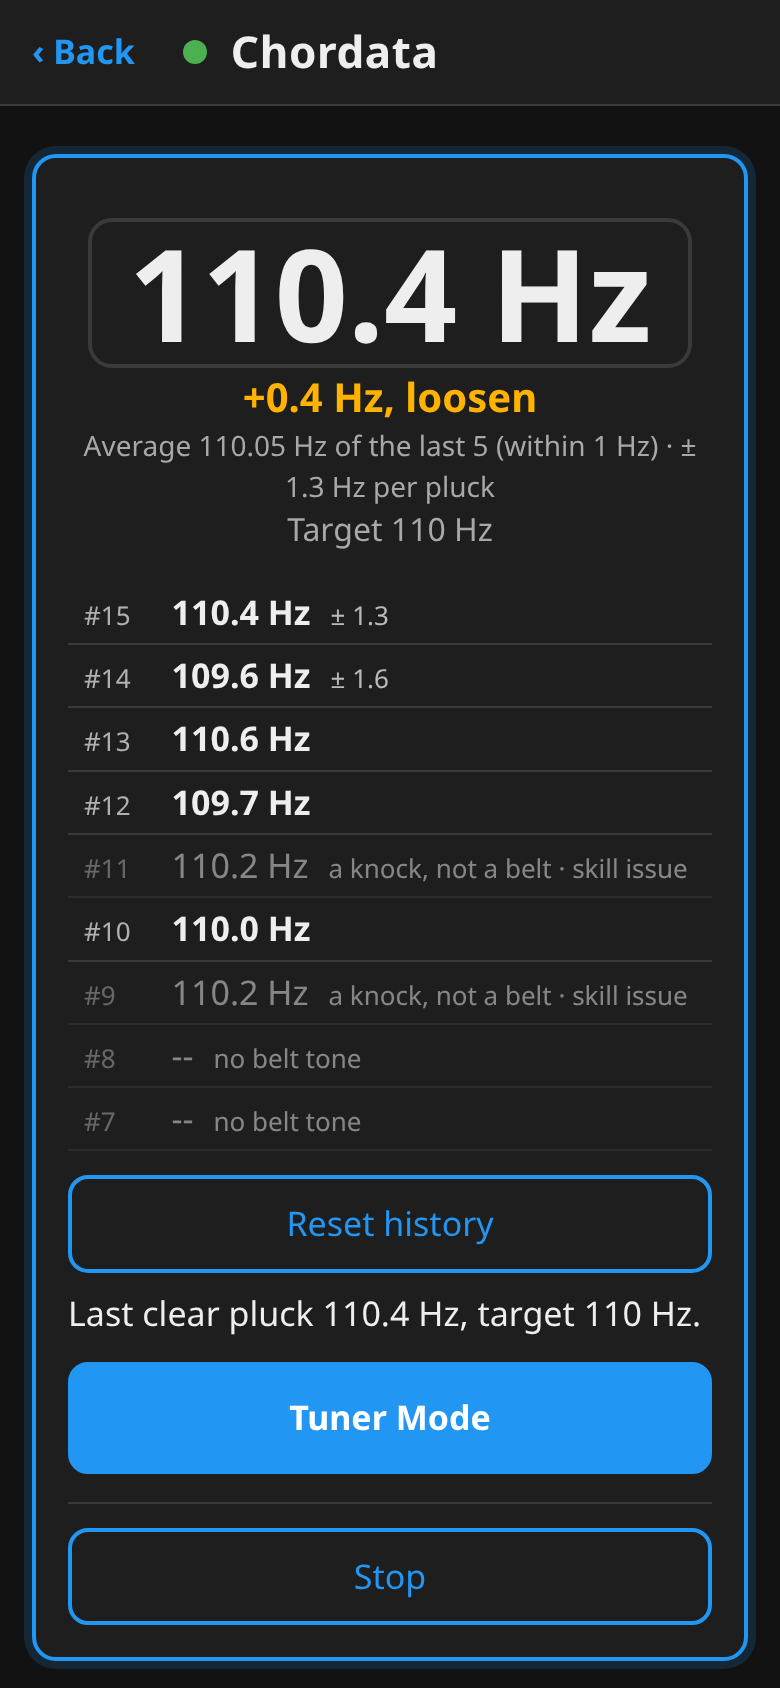
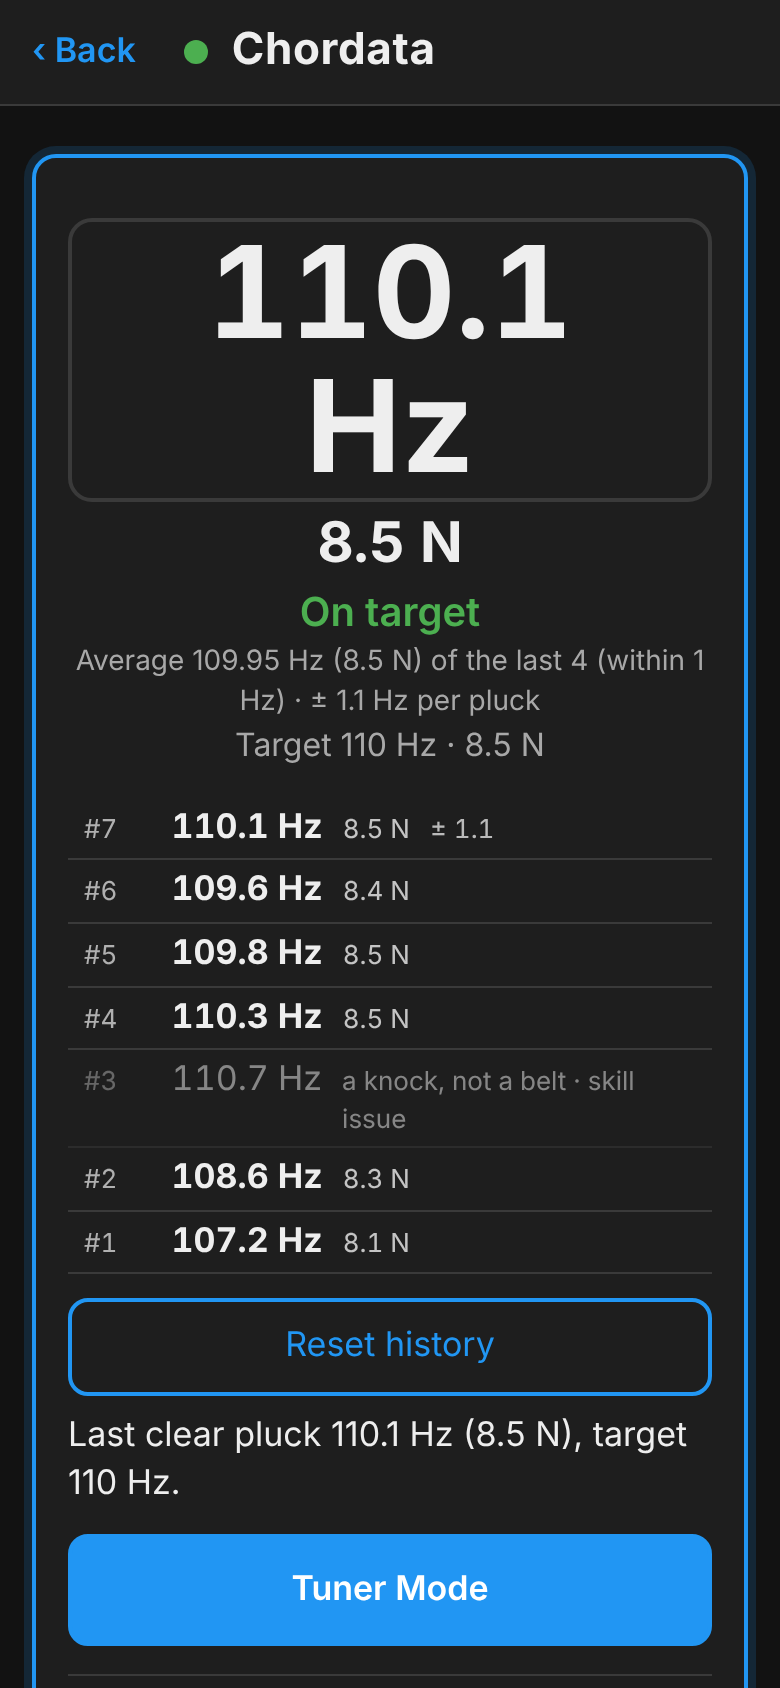
README: new screenshots with belt tension
The How it works screens are retaken on current main (virtual printer), with the
belt tension in N, plus a new one of the belt tension card. Step 1 says how to set
the span and belt, and how far the tension can be trusted. Docs only.

diff --git a/README.md b/README.md
@@ -14,10 +14,17 @@ microphone on two printers so far; the numbers are in [How it was tested](#how-i
 Chordata is a page on your printer, made for a phone held next to it. The screens below are from a
 virtual printer, so the numbers are made up; the page is the real one.
 
-<img src="docs/images/setup.png" width="260" alt="Set Target Frequency: the target, the accelerometer, a jog pad to park the toolhead, Start">
+<img src="docs/images/setup.png" width="260" alt="Set Target Frequency: the belt, the target in Hz, N or lbf, the accelerometer, a jog pad to park the toolhead, Start">
 
 **1. Set up.** Enter the target frequency your printer's documentation gives and park the toolhead where it
-says to pluck (the jog pad moves it; the position can be saved for next time). Press **Start**.
+says to pluck (the jog pad moves it; the position can be saved for next time).
+
+<img src="docs/images/tension.png" width="260" alt="Belt tension card: the span, the belt (6 mm or 9 mm, Gates-Unitta 2GT or Gates GT2 / GT3, or Other) and N or lbf">
+
+Optional: to see the tension in N or lbf as well, press the button under **Belt** (it reads *Not set: Hz
+only*), give the span you pluck and pick your belt. The target can then be typed in Hz, N or lbf. The
+tension is good to about 15-20 % and reads a little high on short spans; your two belts, same span and same
+belt, compare as well as their Hz do. Then press **Start**.
 
 <img src="docs/images/hands-off.png" width="260" alt="Red screen: Stand by, recording background noise">
 
@@ -38,7 +45,7 @@ nothing to learn).
 
 Then the card shows the toolhead's note and the **Tuner Mode** button.
 
-<img src="docs/images/tuner.png" width="260" alt="Green screen, Tuner Mode: the last pluck's frequency, how far from target and which way to turn, the average of the last plucks, the history">
+<img src="docs/images/tuner.png" width="260" alt="Green screen, Tuner Mode: the last pluck's frequency and tension, how far from target and which way to turn, the average of the last plucks, the history with a knock left out">
 
 **4. Tune (Tuner Mode).** The screen turns green: pluck either belt. The stream is analysed as it comes, so
 each clear pluck shows its frequency within about a second, how far it is from your target and which way
@@ -54,7 +61,7 @@ when you switch belts. Turn the tensioner a little between plucks until the belt
 target (within 0.25 Hz; the last pluck decides, the average under it shows whether that holds), then do the
 other belt. A listen ends 60 s after the last pluck, or after 30 minutes at most; start it again to go on.
 
-<img src="docs/images/done.png" width="260" alt="After Done: the last pluck, the average, the whole history">
+<img src="docs/images/done.png" width="260" alt="After Done: the last pluck and its tension, the average, the whole history">
 
 **5. Match.** CoreXY belts pull on each other, so turning one moves the other a little: pluck both once
 more at the end. Done when both are on target, and so match each other. After **Done**, the card keeps the

diff --git a/docs/USER_GUIDE.md b/docs/USER_GUIDE.md
@@ -24,7 +24,7 @@ without it, the page tries to connect to Moonraker on the same host. Demo mode
 opens no printer connection and disables printer commands. Stop this preview
 server with Ctrl+C when finished. A static preview server does not measure belts.
 
-This is the page after a Tuner Mode session (illustrative data): the last pluck, the average of the last
+The page after a Tuner Mode session looks like this (from a virtual printer; the demo's numbers differ): the last pluck, the average of the last
 plucks that agree with its ±, and the session's history.
 
 ![The Chordata page after a Tuner Mode session (virtual printer)](images/done.png)

diff --git a/CHANGELOG.md b/CHANGELOG.md
@@ -3,6 +3,11 @@
 What changed in each update of Chordata's main branch, newest first.
 Update from Mainsail's Update Manager, then restart Klipper.
 
+## 2026-10-31
+
+- **README: new screenshots.** The screens in How it works are retaken on the current page, with the
+  belt tension in N, and a new one shows the belt tension card. Docs only: no update needed.
+
 ## 2026-10-30
 
 - **Belt tension in N or lbf.** Tuner Mode can show each pluck's belt tension under the Hz, in the
